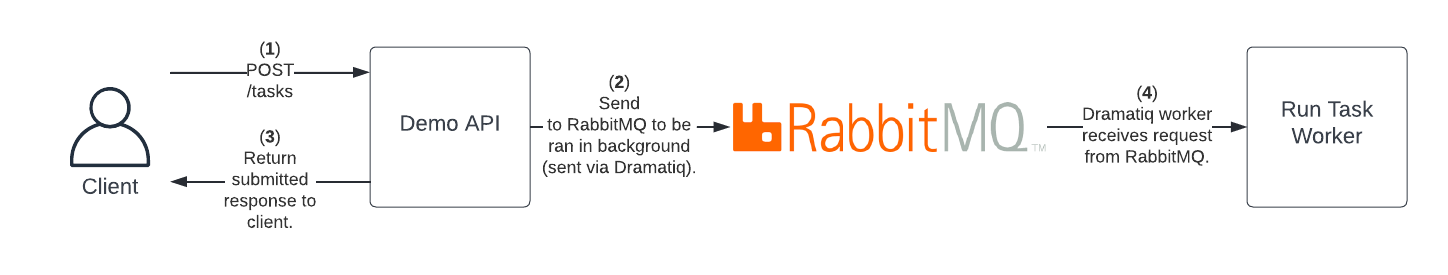
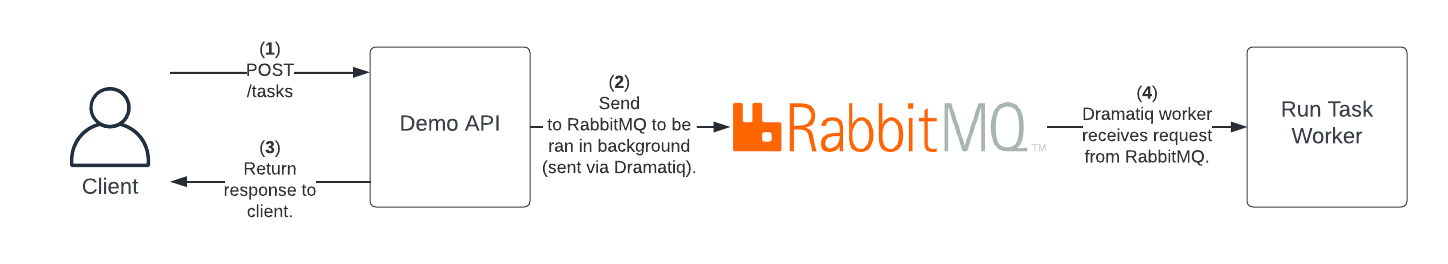
updates

diff --git a/app/api/tasks.py b/app/api/tasks.py
@@ -1,7 +1,7 @@
 from fastapi import APIRouter
 
 from app import schemas
-from app import workers
+from app import actors
 
 
 router = APIRouter()
@@ -9,5 +9,5 @@ router = APIRouter()
 
 @router.post("", response_model=schemas.Task)
 def create_task(task_in: schemas.TaskCreate):
-    workers.run_task.send(task_in.seconds)
+    actors.run_task.send(task_in.seconds)
     return {"seconds": task_in.seconds, "status": "submitted"}

diff --git a/app/actors/__init__.py b/app/actors/__init__.py
@@ -17,6 +17,6 @@ def get_url():
 rabbitmq_broker = RabbitmqBroker(url=get_url())
 dramatiq.set_broker(rabbitmq_broker)
 
-from app.workers.task import run_task  # noqa: E402
+from app.actors.task import run_task  # noqa: E402
 
 __all__ = ("run_task",)

diff --git a/app/actors/task.py b/app/actors/task.py
@@ -2,7 +2,7 @@ import time
 
 from loguru import logger
 
-from app.workers import dramatiq
+from app.actors import dramatiq
 
 
 @dramatiq.actor

diff --git a/README.md b/README.md
@@ -4,9 +4,9 @@
 
 FastAPI does have the ability out of the box for background tasks, check out the docs [here](https://fastapi.tiangolo.com/tutorial/background-tasks/).  You should only use the builtin option for simple / light tasks.  If you have a resource intensive task or want more features / options (retries, limits, scheduling, etc.) then the RabbitMQ/Dramatiq setup is the way to go.
 
-So what exactly is RabbitMQ and Dramatiq?  RabbitMQ is a message broker; a way for applications, systems, services to communicate with one another and exchange information.  Dramatiq is a python based background task processing library.  Dramatiq has the concept of actors and workers.  An actor enqueues a message on RabbitMQ and a worker receives the message and executes the task.
+So what exactly is RabbitMQ and Dramatiq?  RabbitMQ is a message broker; a way for applications, systems, services to communicate with one another and exchange information.  Dramatiq is a python based background task processing library.  Dramatiq has the concept of actors and workers.  When you want to run a function in the background you use a decorator `@dramatiq.actor`.  To call that function and to have it run in the background you append `send()` to the end of it.  The `send()` enqueues the message on RabbitMQ.  A Dramatiq **worker** will receive the message and pass it along the appropriate **actor**.  When you enqueue messages, if you pass along data to the actor, it must be in JSON format.
 
-Here is a high level diagram of the demo environment and what's happening behind the scenes when you call the `/tasks` endpoint:
+In this demo I have a basic FastAPI app deployed that has a single endpoint, `/tasks`.  When you make a `POST` to the `/tasks` endpoint the variable `seconds` should be passed in the body.  Here is a high level diagram of the demo environment and what's happening behind the scenes when you perform a `POST` to the `/tasks` endpoint:
 
 ![Demo](docs/demo.png)
 
@@ -30,7 +30,7 @@ With these tools installed on your workstation we'll be able to leverage docker 
 
 ## Demo Environment
 
-### Bring Up Demo
+### Bring Up Demo Environment
 
 Once you have the prerequisites met you should now be able to spin up the demo environment.  The first thing you need to do is **clone** down this repo.  Once you have cloned the repo then -> open vscode -> select open folder -> locate the directory you just cloned down -> select open.  
 
